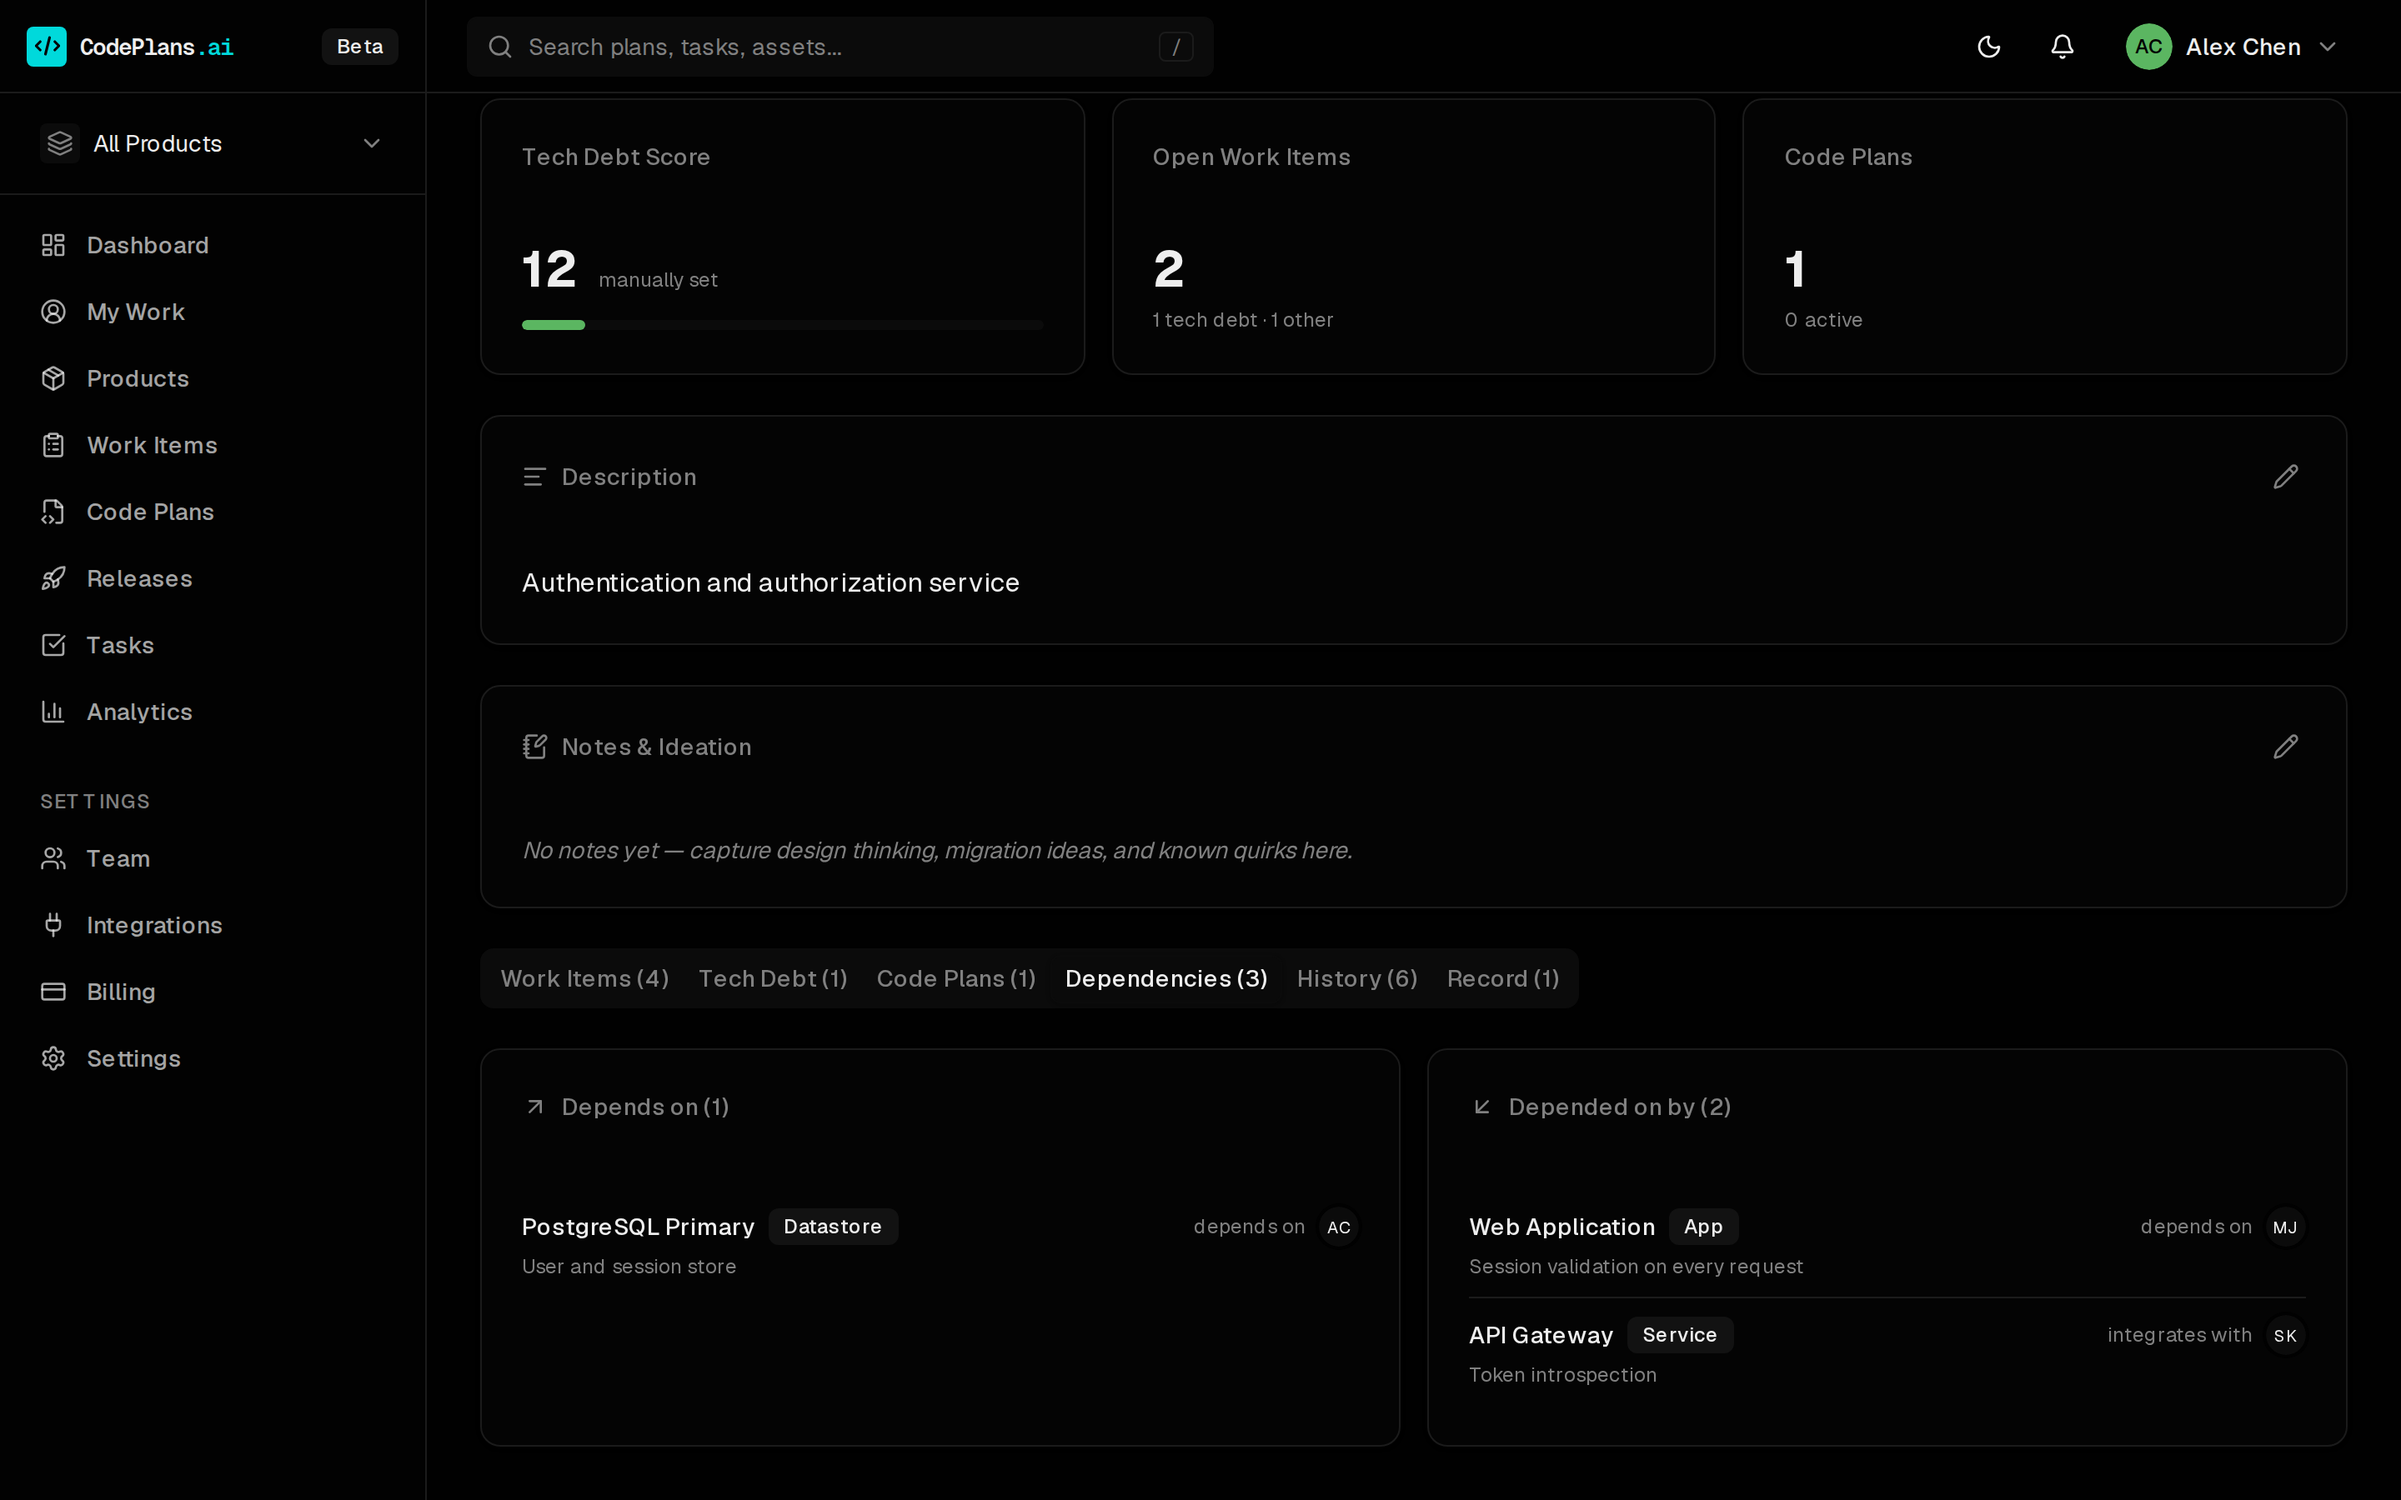
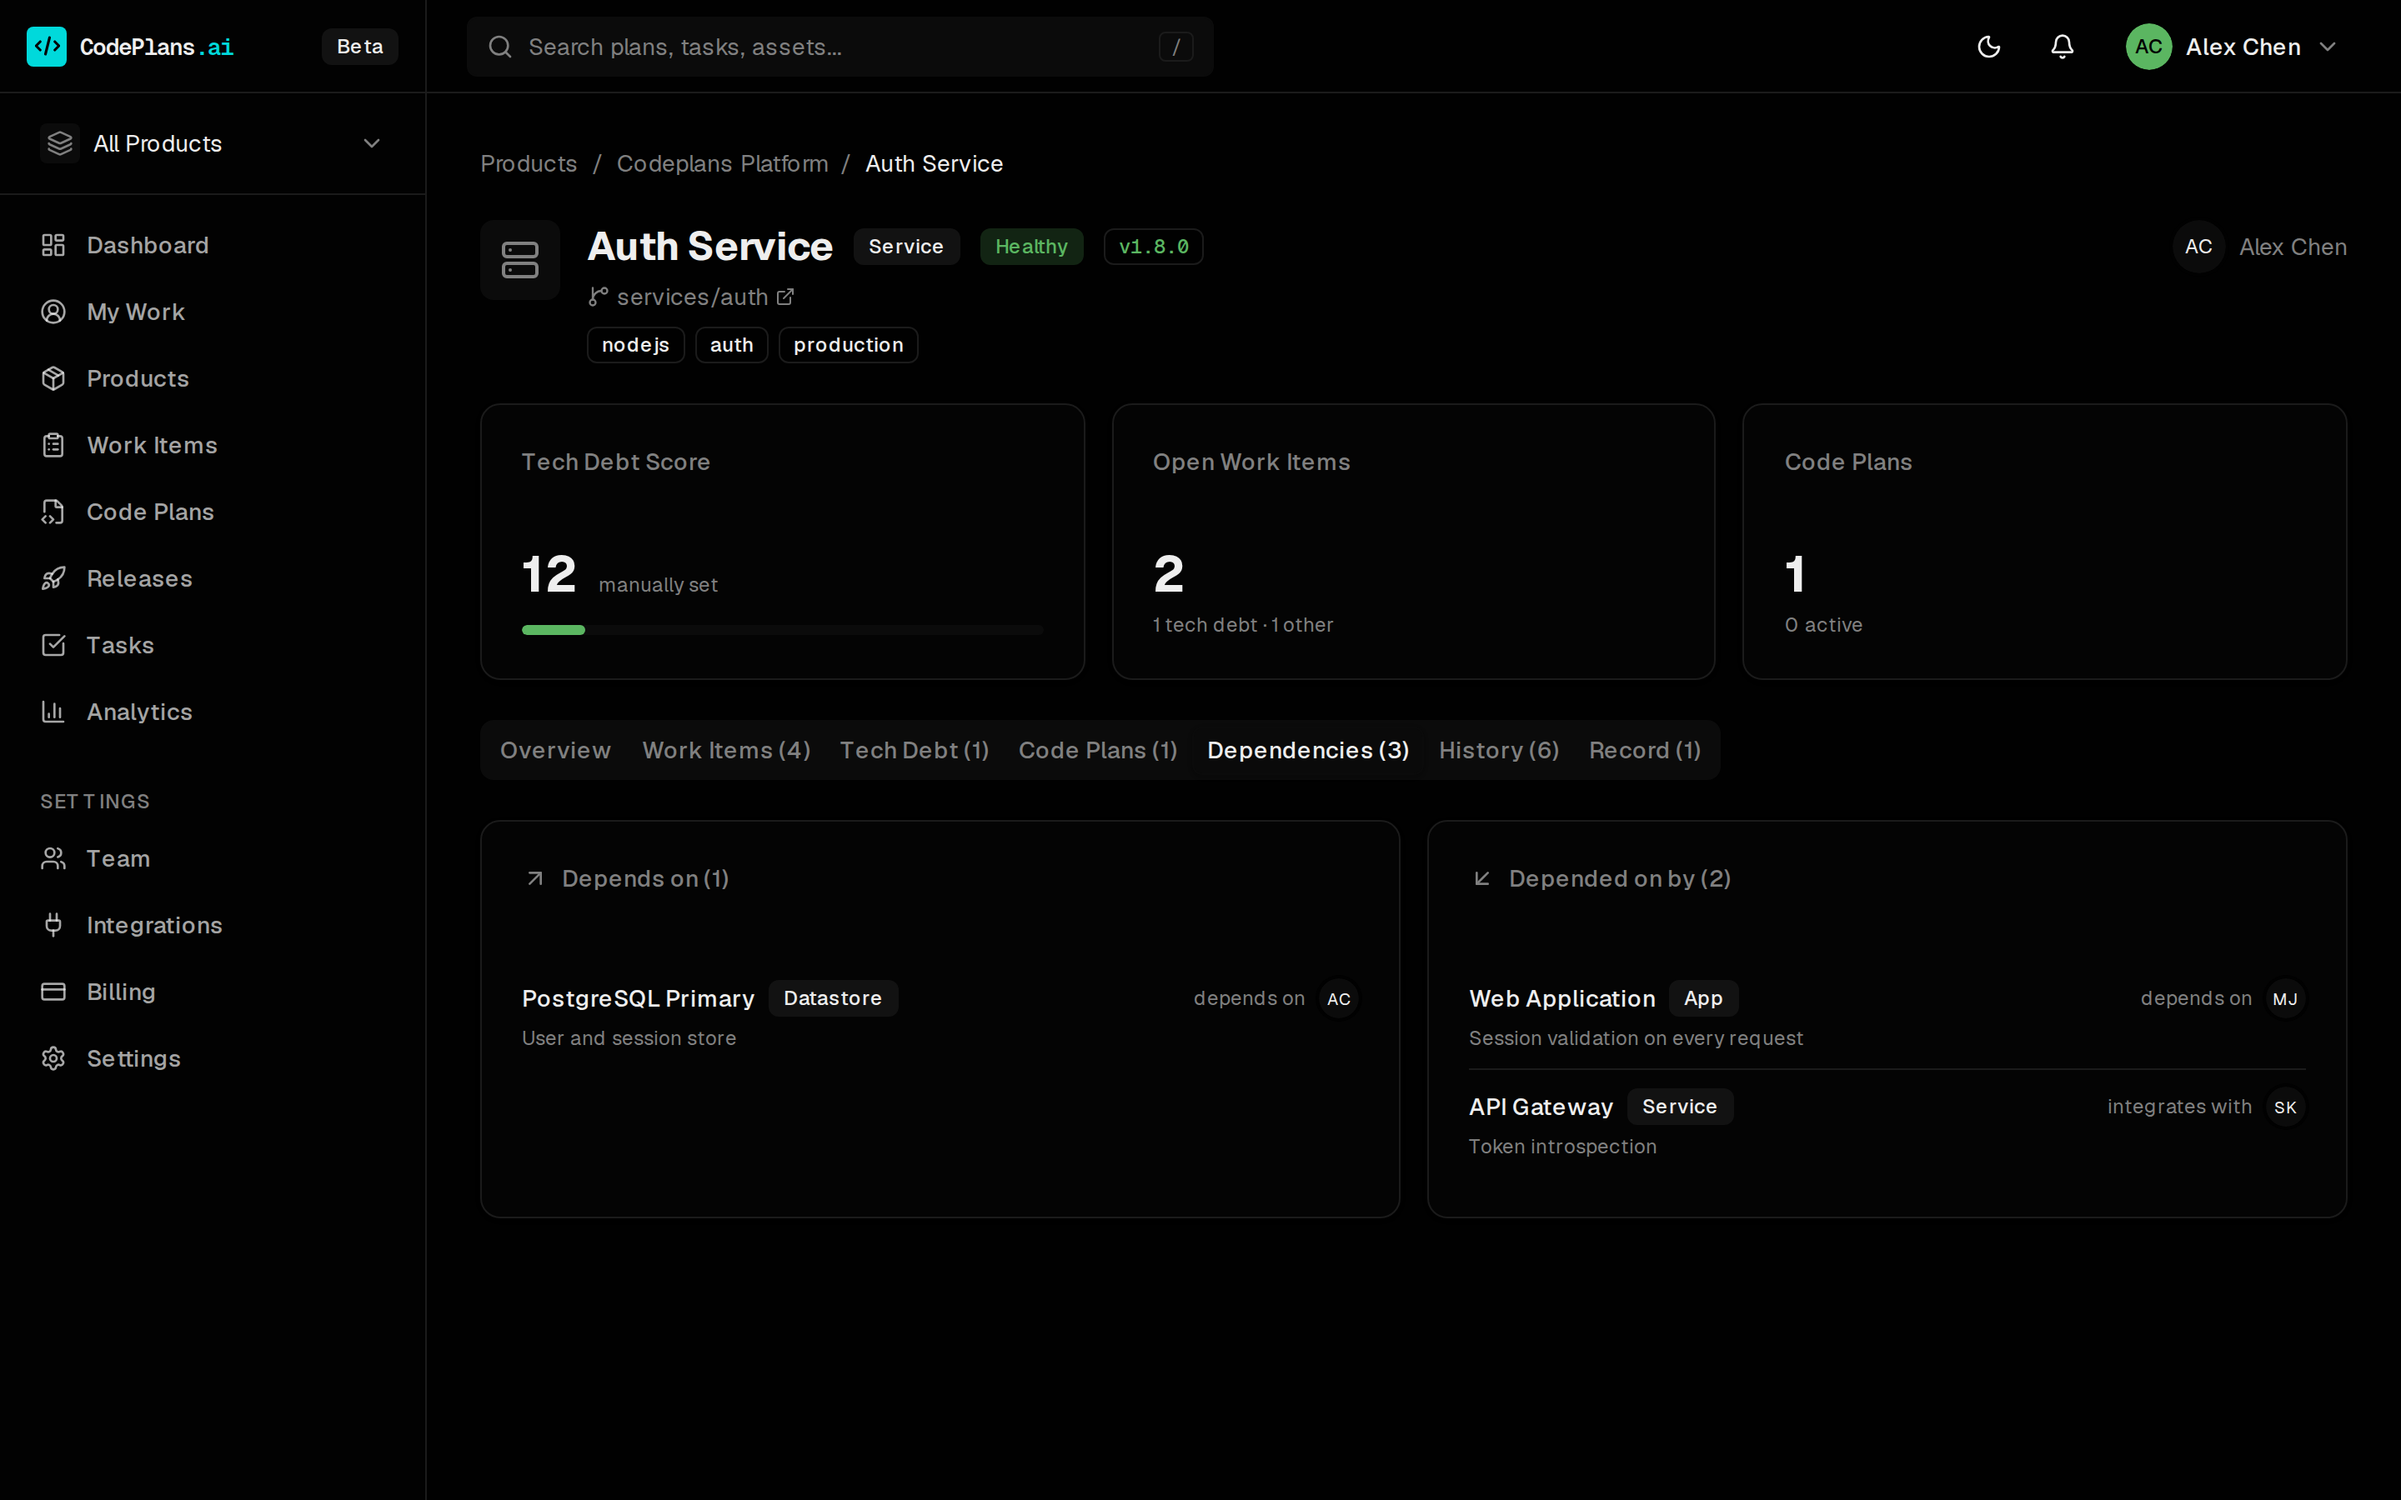
Asset detail: move description & notes into a default Overview tab
The asset page stacked header, summary cards, and two auto-save content
cards (description, notes) above the tab bar, pushing every tab's
content below the fold — History and Record screenshots couldn't show
the page's structure in one frame, and long descriptions squeezed the
registers they sat above.

The description and notes cards now live in a dedicated Overview tab
(the default), so the tab bar sits directly under the summary cards:
descriptions get room to read properly, and each tab's content is
visible with full page context. Docs screenshots for Record, History,
and Dependencies recaptured with the new layout; app-spec updated.

Claude-Session: https://claude.ai/code/session_01Y7FhGxYjnJHJ7m9MpH2dgJ

diff --git a/app/(dashboard)/assets/[id]/page.tsx b/app/(dashboard)/assets/[id]/page.tsx
@@ -227,11 +227,9 @@ export default async function AssetDetailPage({ params }: { params: Promise<{ id
         </Card>
       </div>
 
-      <AssetContentCard assetId={asset.id} productSlug={asset.productSlug} field="description" value={asset.description} />
-      <AssetContentCard assetId={asset.id} productSlug={asset.productSlug} field="notes" value={asset.notes ?? ''} />
-
-      <Tabs defaultValue="work-items">
+      <Tabs defaultValue="overview">
         <TabsList className="bg-muted">
+          <TabsTrigger value="overview">Overview</TabsTrigger>
           <TabsTrigger value="work-items">Work Items ({items.length})</TabsTrigger>
           <TabsTrigger value="debt">Tech Debt ({debtItems.length})</TabsTrigger>
           <TabsTrigger value="plans">Code Plans ({asset.plans.length})</TabsTrigger>
@@ -241,6 +239,11 @@ export default async function AssetDetailPage({ params }: { params: Promise<{ id
             Record ({(record?.capabilities ?? []).filter((c) => c.status === 'active').length})
           </TabsTrigger>
         </TabsList>
+
+        <TabsContent value="overview" className="mt-4 space-y-6">
+          <AssetContentCard assetId={asset.id} productSlug={asset.productSlug} field="description" value={asset.description} />
+          <AssetContentCard assetId={asset.id} productSlug={asset.productSlug} field="notes" value={asset.notes ?? ''} />
+        </TabsContent>
 
         <TabsContent value="work-items" className="mt-4">
           {items.length === 0 ? (

diff --git a/docs/app-spec.md b/docs/app-spec.md
@@ -293,7 +293,8 @@ Two tabs: **Assets** and **Code Plans**.
 ---
 
 #### `/assets/[id]` — Asset Detail (v0.3.25)
-Header (type/health badges, current version chip from latest shipped release, repo/docs links, owners), summary cards (tech debt score with derived-vs-manual note, open work items, plan count), auto-save description + notes (ideation doc) cards, and tabs:
+Header (type/health badges, current version chip from latest shipped release, repo/docs links, owners), summary cards (tech debt score with derived-vs-manual note, open work items, plan count), and tabs (v0.4.4 moved the auto-save description + notes cards into a default **Overview** tab so every tab's content starts above the fold):
+- **Overview** (default) — auto-save description + notes (ideation doc) cards
 - **Work Items / Tech Debt / Code Plans / Dependencies** — the asset's slices of the existing views (plans with per-asset branch/PR chips)
 - **History** (v0.4.0–v0.4.2) — reverse-chronological timeline projected from existing rows: shipped releases as version tick marks (with a sticky version ladder), completed plans, resolved work items, debt movement, and design-log entries (expandable markdown, agent badge for MCP-authored notes, "via plan" anchor chips). Filter chips per entry kind. "Add design note" side panel with optional release/plan anchors and (flagged) AI draft-from-plan.
 - **Record** (v0.4.4) — the asset's current-state register: a candidates banner ("N resolved features can join this asset's record" with one-click graduation), capabilities list (lineage chip from `originSummary`, verification freshness dot, expandable markdown, edit dialog, remove-with-reason dialog), derived **Known issues** (open bug/ux) and **Debt register** (open tech_debt) cards, and a struck-through **Previously** card for tombstoned capabilities.
